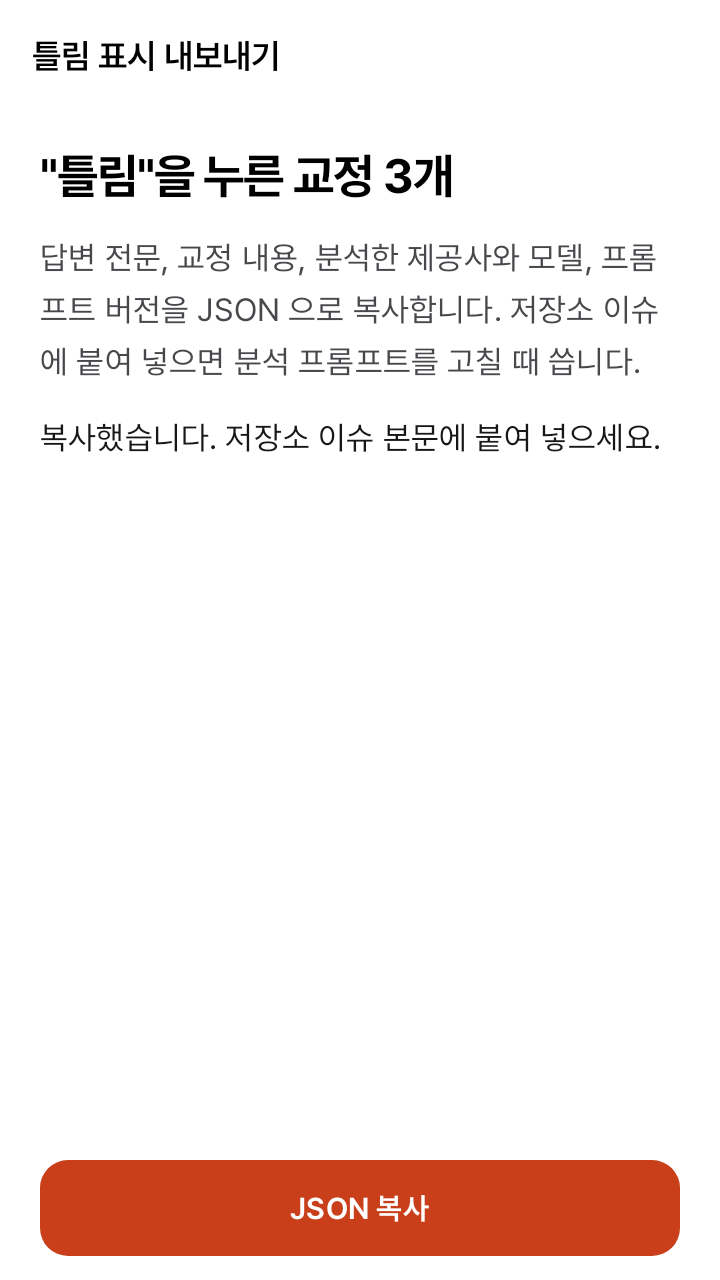
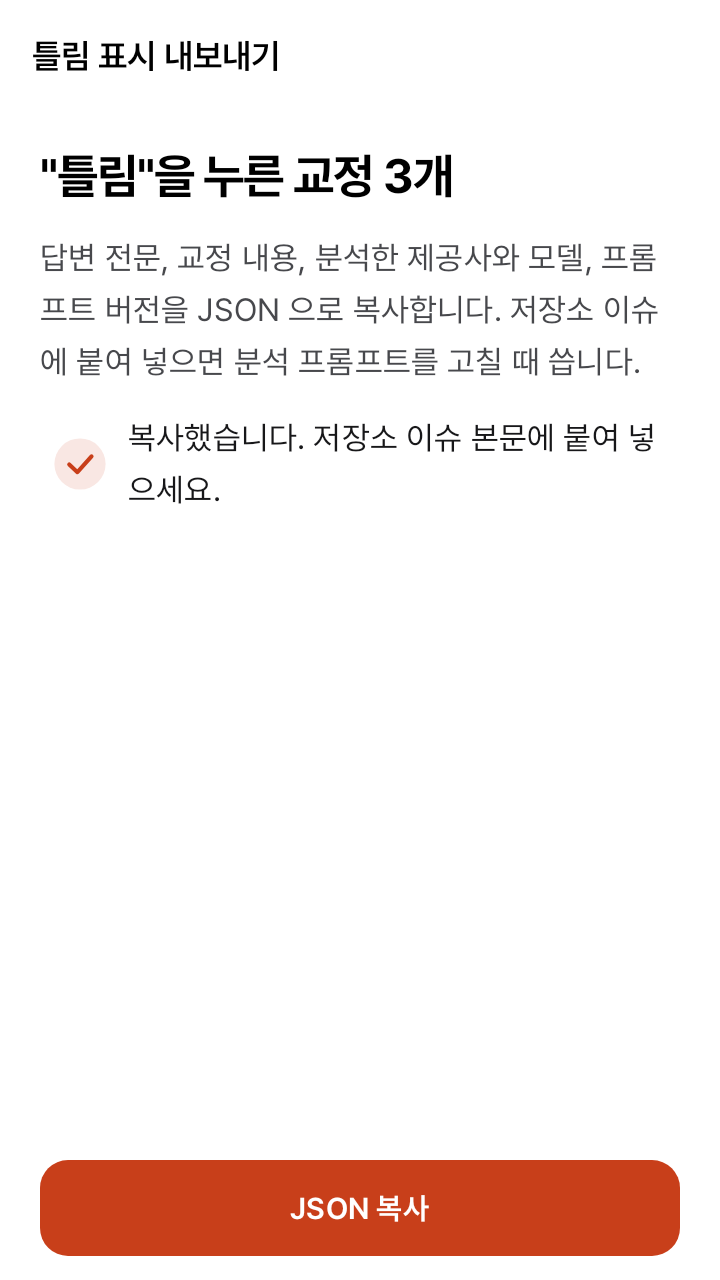
[motion-onb] 틀림 표시 내보내기 복사 완료에 체크를 그린다 (#158)

Changed region(s): [[0.4583, 0.3125, 0.9167, 0.375], [0.0611, 0.3125, 0.4278, 0.4062]]

diff --git a/ui/feature-settings/src/commonMain/kotlin/io/github/nosorae/aiopic/ui/featuresettings/export/FlagExportScreen.kt b/ui/feature-settings/src/commonMain/kotlin/io/github/nosorae/aiopic/ui/featuresettings/export/FlagExportScreen.kt
@@ -2,13 +2,16 @@ package io.github.nosorae.aiopic.ui.featuresettings.export
 
 import androidx.compose.foundation.layout.Arrangement
 import androidx.compose.foundation.layout.Column
+import androidx.compose.foundation.layout.Row
 import androidx.compose.foundation.layout.fillMaxWidth
 import androidx.compose.foundation.layout.padding
+import androidx.compose.foundation.layout.size
 import androidx.compose.foundation.rememberScrollState
 import androidx.compose.foundation.verticalScroll
 import androidx.compose.material3.Text
 import androidx.compose.runtime.Composable
 import androidx.compose.runtime.getValue
+import androidx.compose.ui.Alignment
 import androidx.compose.ui.Modifier
 import androidx.compose.ui.platform.LocalClipboardManager
 import androidx.compose.ui.semantics.LiveRegionMode
@@ -18,6 +21,7 @@ import androidx.compose.ui.text.AnnotatedString
 import androidx.compose.ui.tooling.preview.Preview
 import androidx.lifecycle.compose.collectAsStateWithLifecycle
 import io.github.nosorae.aiopic.ui.design.MontageButton
+import io.github.nosorae.aiopic.ui.design.MontageCheckMark
 import io.github.nosorae.aiopic.ui.design.MontageScreen
 import io.github.nosorae.aiopic.ui.design.MontageSpacing
 import io.github.nosorae.aiopic.ui.design.MontageTheme
@@ -79,12 +83,16 @@ fun FlagExportScreen(state: FlagExportUiState, onIntent: (FlagExportIntent) -> U
                 color = colors.foregroundNeutralSecondary,
             )
             if (state.copied) {
-                Text(
-                    text = stringResource(Res.string.export_copied),
-                    style = typography.body1Reading.regular,
-                    color = colors.foregroundNeutralPrimary,
-                    modifier = Modifier.semantics { liveRegion = LiveRegionMode.Polite },
-                )
+                // 복사는 바로 끝나서 기다림 표시 없이 끝났다는 체크만 그린다.
+                Row(horizontalArrangement = Arrangement.spacedBy(MontageSpacing.spacing4), verticalAlignment = Alignment.CenterVertically) {
+                    MontageCheckMark(Modifier.size(MontageSpacing.spacing40))
+                    Text(
+                        text = stringResource(Res.string.export_copied),
+                        style = typography.body1Reading.regular,
+                        color = colors.foregroundNeutralPrimary,
+                        modifier = Modifier.weight(1f).semantics { liveRegion = LiveRegionMode.Polite },
+                    )
+                }
             }
         }
     }
@@ -93,11 +101,12 @@ fun FlagExportScreen(state: FlagExportUiState, onIntent: (FlagExportIntent) -> U
 /** 미리보기와 스크린샷 테스트가 같이 쓰는 고정 상태. */
 internal object FlagExportSamples {
     val flagged = FlagExportUiState(loading = false, count = 3, json = "[]")
+    val copied = flagged.copy(copied = true)
     val empty = FlagExportUiState(loading = false)
 }
 
 @Preview
 @Composable
 private fun FlagExportScreenPreview() {
-    MontageTheme { FlagExportScreen(state = FlagExportSamples.flagged.copy(copied = true), onIntent = {}) }
+    MontageTheme { FlagExportScreen(state = FlagExportSamples.copied, onIntent = {}) }
 }

diff --git a/ui/feature-settings/src/androidHostTest/kotlin/io/github/nosorae/aiopic/ui/featuresettings/export/FlagExportScreenTest.kt b/ui/feature-settings/src/androidHostTest/kotlin/io/github/nosorae/aiopic/ui/featuresettings/export/FlagExportScreenTest.kt
@@ -1,0 +1,44 @@
+package io.github.nosorae.aiopic.ui.featuresettings.export
+
+import androidx.compose.ui.graphics.asAndroidBitmap
+import androidx.compose.ui.test.captureToImage
+import androidx.compose.ui.test.junit4.createComposeRule
+import androidx.compose.ui.test.onRoot
+import androidx.test.ext.junit.runners.AndroidJUnit4
+import io.github.nosorae.aiopic.ui.design.MontageTheme
+import org.junit.Assert.assertTrue
+import org.junit.Rule
+import org.junit.Test
+import org.junit.runner.RunWith
+import org.robolectric.annotation.Config
+import org.robolectric.annotation.GraphicsMode
+
+/** 복사한 뒤의 체크는 동작 줄이기면 첫 프레임부터 다 그려져 있고 움직이지 않는다. */
+@RunWith(AndroidJUnit4::class)
+@GraphicsMode(GraphicsMode.Mode.NATIVE)
+@Config(sdk = [35], qualifiers = "w360dp-h640dp-xhdpi")
+class FlagExportScreenTest {
+    @get:Rule val rule = createComposeRule()
+
+    @Test
+    fun `동작 줄이기면 복사 완료 체크가 첫 프레임부터 다 그려져 있다`() {
+        rule.mainClock.autoAdvance = false
+        rule.setContent { MontageTheme(reduceMotion = true) { FlagExportScreen(state = FlagExportSamples.copied, onIntent = {}) } }
+        val first = rule.onRoot().captureToImage().asAndroidBitmap()
+
+        rule.mainClock.advanceTimeBy(2_000)
+
+        assertTrue(first.sameAs(rule.onRoot().captureToImage().asAndroidBitmap()))
+    }
+
+    @Test
+    fun `복사하면 체크가 그려지는 동안 프레임이 바뀐다`() {
+        rule.mainClock.autoAdvance = false
+        rule.setContent { MontageTheme { FlagExportScreen(state = FlagExportSamples.copied, onIntent = {}) } }
+        val first = rule.onRoot().captureToImage().asAndroidBitmap()
+
+        rule.mainClock.advanceTimeBy(2_000)
+
+        assertTrue(!first.sameAs(rule.onRoot().captureToImage().asAndroidBitmap()))
+    }
+}

diff --git a/ui/feature-settings/src/androidHostTest/kotlin/io/github/nosorae/aiopic/ui/featuresettings/export/FlagExportScreenshotTest.kt b/ui/feature-settings/src/androidHostTest/kotlin/io/github/nosorae/aiopic/ui/featuresettings/export/FlagExportScreenshotTest.kt
@@ -15,13 +15,13 @@ import org.robolectric.annotation.GraphicsMode
 class FlagExportScreenshotTest {
     @Test fun flagged() = capture(FlagExportSamples.flagged)
 
-    @Test fun flagged_copied() = capture(FlagExportSamples.flagged.copy(copied = true))
+    @Test fun flagged_copied() = capture(FlagExportSamples.copied)
 
-    @Test fun flagged_copied_dark() = capture(FlagExportSamples.flagged.copy(copied = true), dark = true)
+    @Test fun flagged_copied_dark() = capture(FlagExportSamples.copied, dark = true)
 
     @Config(fontScale = 2f)
     @Test
-    fun flagged_copied_fontScale200() = capture(FlagExportSamples.flagged.copy(copied = true))
+    fun flagged_copied_fontScale200() = capture(FlagExportSamples.copied)
 
     @Test fun empty() = capture(FlagExportSamples.empty)
 
